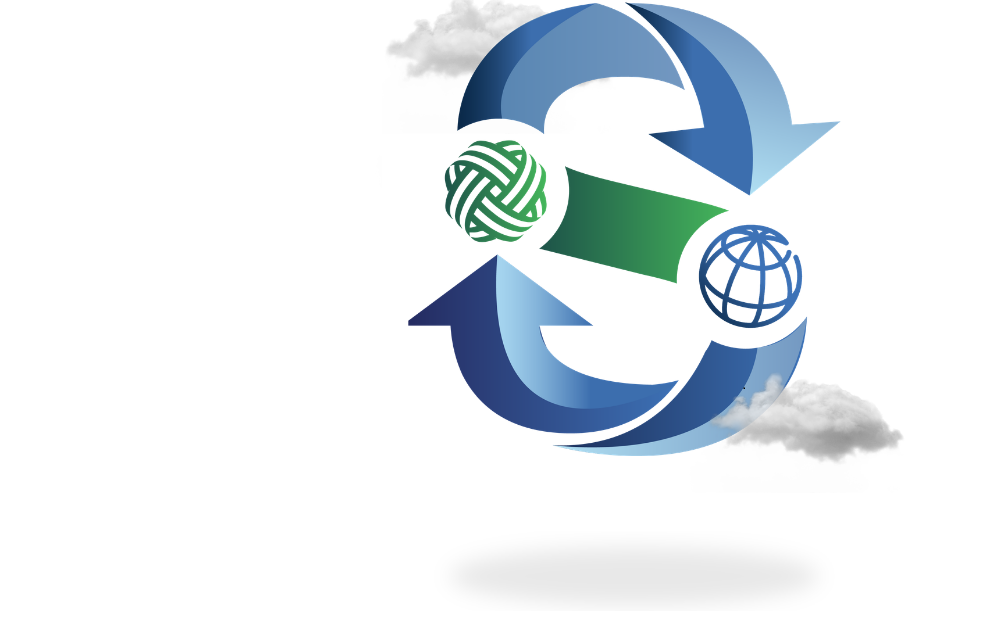
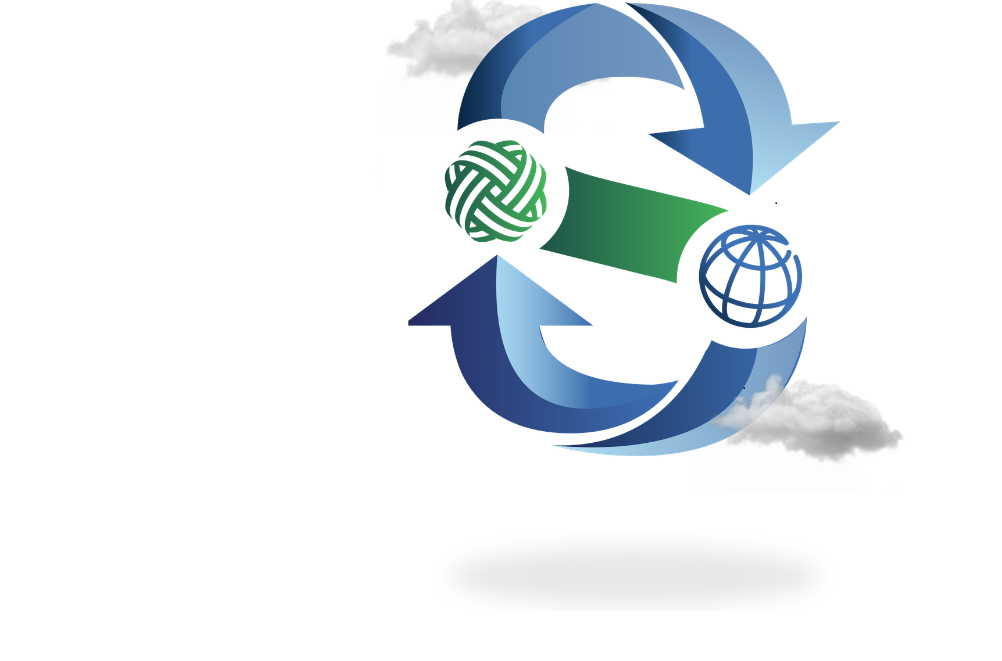
updating color

diff --git a/index.html b/index.html
@@ -71,7 +71,7 @@
 
     <section class="section__container journey__container" id="who-we-are">
       <h2 class="section__header">
-        Who <span class="text-green">We Are</span>
+        <span class="text-green">Who We Are</span>
       </h2>
       <p class="section__description">Effortlessly Meeting All Your Needs</p>
       <!-- <div class="journey__grid">
@@ -212,7 +212,7 @@
     <!-- What We Do -->
 
     <section class="section__container journey__container" id="what-we-do">
-      <h2 class="section__header">What <span class="text-blue">We do</span></h2>
+      <h2 class="section__header"><span class="text-blue">What We do</span></h2>
       <p class="section__description">Discover All The Things We Do</p>
       <div class="destination__grid">
         <!-- Sourcing -->
@@ -470,7 +470,7 @@
       <div class="section__container footer__container">
         <div class="footer__col">
           <div class="footer__logo">
-            <a href="#" class="logo">SiftDotz</a>
+            <a href="#" class="logo">SwiftDotz</a>
           </div>
           <p>
             Empowering businesses through reliable global sourcing, seamless

diff --git a/style.css b/style.css
@@ -11,8 +11,8 @@
 
   --brand-blue-from: #5468d4;
   --brand-blue-to: #1a237e;
-  --brand-green: #2d9e4f;
-  --brand-green-to: #026921;
+  --brand-green: #28eb63;
+  --brand-green-to: #004314;
 }
 
 * {
@@ -338,7 +338,7 @@ header::before {
   background: linear-gradient(
     135deg,
     var(--brand-green) 0%,
-    var(--brand-green) 100%
+    var(--brand-green-to) 100%
   );
   -webkit-background-clip: text;
   -webkit-text-fill-color: transparent;
